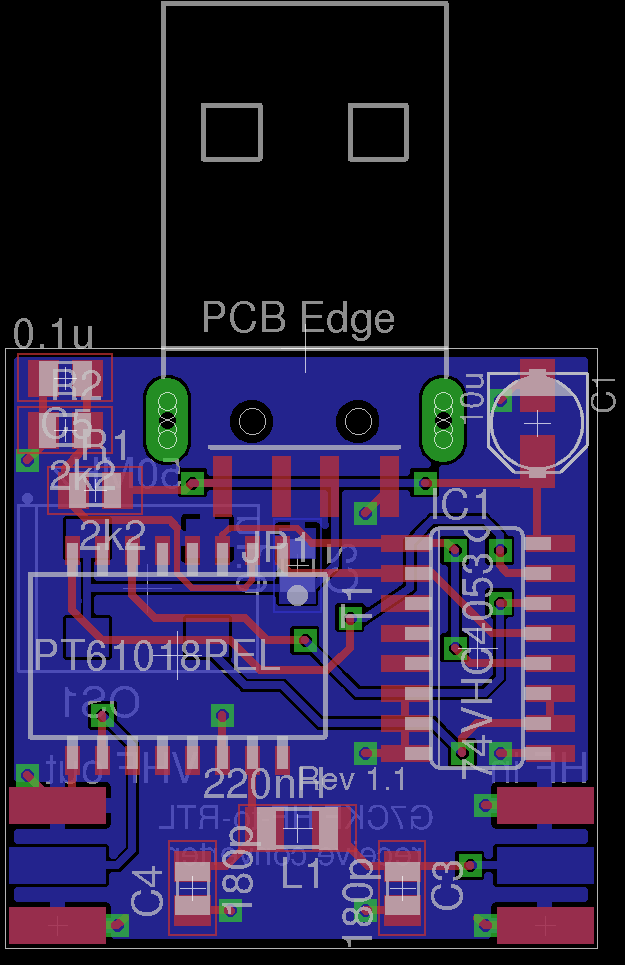
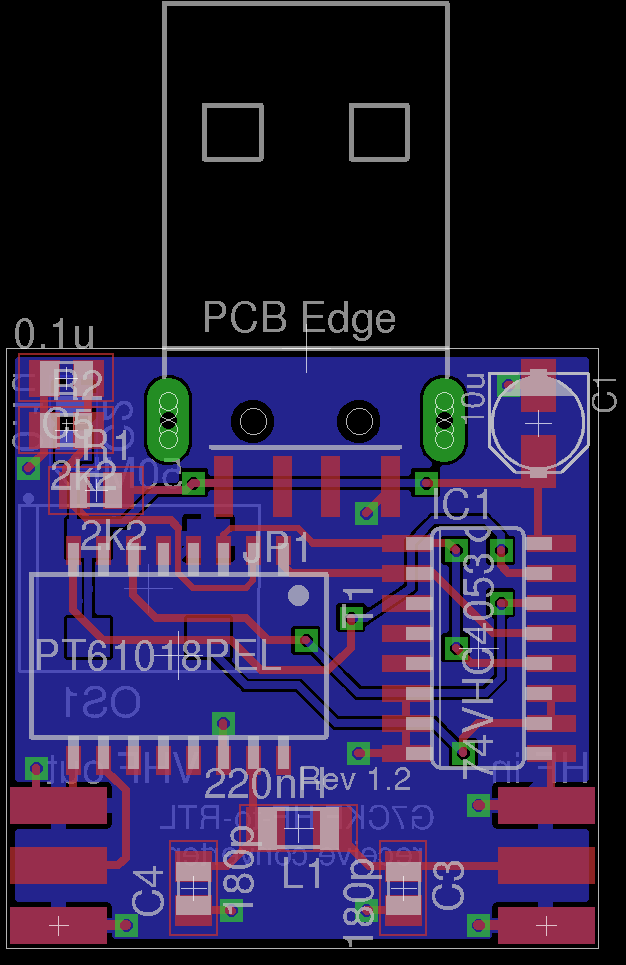
Updated PCB to v1.2, with SMA connector centre pins on top of the board.

diff --git a/Hardware/one-inch-HF-to-VHF-converter/README.md b/Hardware/one-inch-HF-to-VHF-converter/README.md
@@ -4,15 +4,15 @@ This is an entry for the [2015 Hackaday.io One Square Inch competition](https://
 ###Files:
 - hf-upconverter.brd, an EAGLE CAD board file.
 - hf-upconverter.sch, an EAGLE CAD schematic file.
-- one-inch-HF-receive-converter-gerbers.zip, Gerber files for manufacturing generated through EAGLE CAD using OSH Park's CAM file.
+- one-inch-HF-receive-converter-gerbers-v1.2.zip, Gerber files for manufacturing generated through EAGLE CAD using OSH Park's CAM file.
 - upconverter PCB.png, a generated image of the PCB.
 - upconverter schematic.png, the converter circuit diagram.
 - hf-upconverter-bom.csv, the bill of materials for the project.
 - LICENCE, a copy of the Solderpad Hardware Licence v0.51
 
-###TODO
-
-Instructions. Waiting for prototype build.
+###Instructions:
+It's a small board, so the instructions are shre and sweet.
+Solder all the chip components first, then the mixer IC, then the transformer, the electrolytic, the oscillator, and finally the connectors. You'll get lots of flux all over everything, but a quick brush with a bit of solvent cleaner should deal with that.
 
 ###Licence and boilerplate
 
